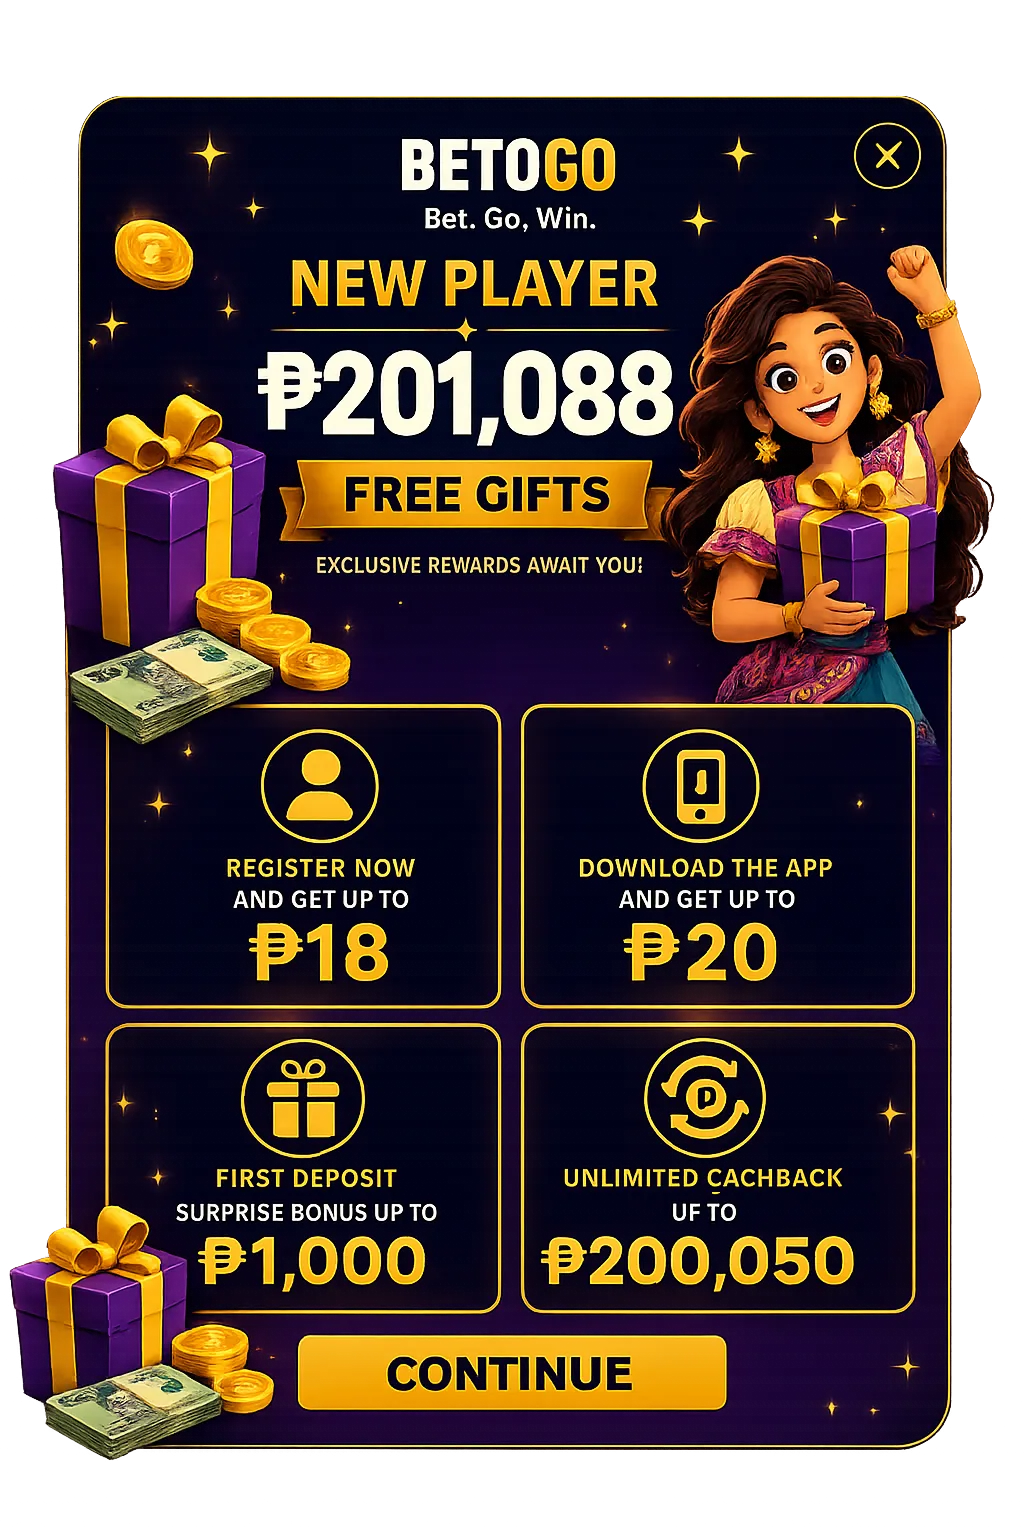
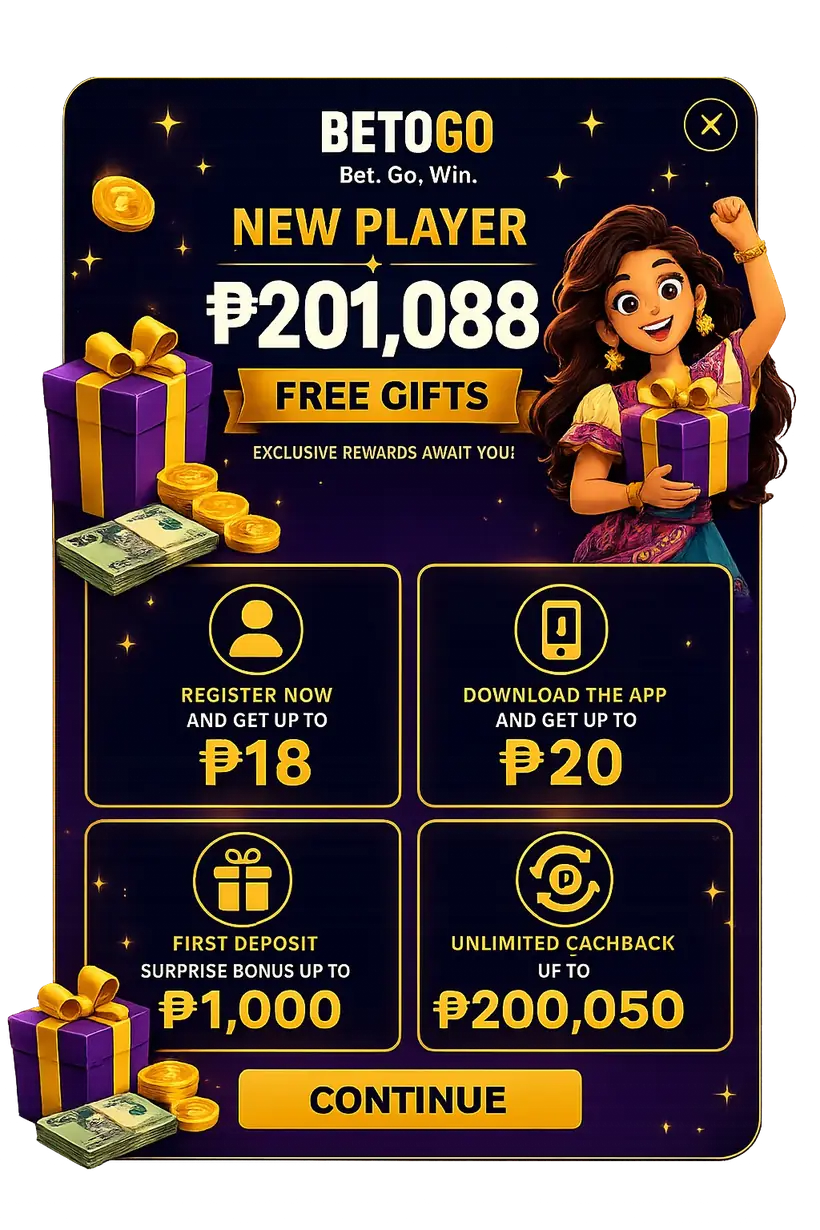
新人礼包弹窗弱网防卡死 + 图片压缩
- 弱网下遮罩先出而图未加载→X画在图里无法关闭,用户被空遮罩挡死。修复:
  ①图未加载时显示独立兜底关闭按钮(不依赖图)+loading圈,加载完成后隐藏(避免双X)
  ②固定宽高比占位撑开尺寸,布局不跳、热区坐标稳定
  ③点遮罩空白处本就可关闭,三重保证用户始终能退出
- 图片压缩:1024→820宽 q74,394KB→218KB(省45%),缩短加载窗口,质量无损可见

diff --git a/apps/web-tma/src/components/promotion/NewPlayerGiftSheet.tsx b/apps/web-tma/src/components/promotion/NewPlayerGiftSheet.tsx
@@ -1,4 +1,6 @@
+import { useState } from 'react'
 import { createPortal } from 'react-dom'
+import { X } from 'lucide-react'
 import newPlayerImg from '@/assets/home/promos/new-player.webp'
 
 interface Props {
@@ -6,39 +8,64 @@ interface Props {
   onContinue: () => void
 }
 
-// 居中弹出设计图（透明边），X 与 CONTINUE 已画在图里，只在其位置盖透明热区
+// 居中弹出设计图（透明边），X 与 CONTINUE 画在图里、盖透明热区。
+// 弱网防卡死：图未加载时用固定宽高比占位 + loading 圈 + 独立兜底关闭按钮，
+// 保证遮罩出现时用户始终能关闭，不会被空遮罩挡死。
 export default function NewPlayerGiftSheet({ onClose, onContinue }: Props) {
+  const [loaded, setLoaded] = useState(false)
+
   return createPortal(
     <div
       className="fixed inset-0 z-[95] flex items-center justify-center bg-black/80 px-4"
       onClick={onClose}
     >
-      <div
-        className="relative w-full max-w-[380px]"
-        onClick={(e) => e.stopPropagation()}
-      >
-        <img
-          src={newPlayerImg}
-          alt="New Player Gifts"
-          draggable={false}
-          className="block w-full max-h-[90dvh] select-none object-contain"
-        />
-        {/* 右上角 X：关闭弹窗 */}
+      {/* 兜底关闭：仅在图未加载时显示，图片自带的 X 出来后隐藏，避免双 X */}
+      {!loaded && (
         <button
           type="button"
           aria-label="Close"
           onClick={onClose}
-          className="absolute cursor-pointer"
-          style={{ top: '5%', right: '5%', width: '16%', height: '12%' }}
-        />
-        {/* 底部 CONTINUE：未登录→登录弹窗，已登录→优惠页 */}
-        <button
-          type="button"
-          aria-label="Continue"
-          onClick={onContinue}
-          className="absolute cursor-pointer"
-          style={{ left: '8%', right: '8%', top: '84%', height: '9%' }}
-        />
+          className="absolute right-4 top-4 z-10 flex h-9 w-9 items-center justify-center rounded-full bg-black/55 text-white/90 active:scale-95"
+        >
+          <X size={20} strokeWidth={2.5} />
+        </button>
+      )}
+
+      <div className="relative w-full max-w-[380px]" onClick={(e) => e.stopPropagation()}>
+        {/* 固定宽高比占位：图未到也先撑开正确尺寸，热区坐标稳定、布局不跳 */}
+        <div className="relative w-full" style={{ aspectRatio: '1024 / 1536' }}>
+          {!loaded && (
+            <div className="absolute inset-0 flex items-center justify-center">
+              <span className="h-8 w-8 animate-spin rounded-full border-2 border-white/25 border-t-white/90" />
+            </div>
+          )}
+          <img
+            src={newPlayerImg}
+            alt="New Player Gifts"
+            draggable={false}
+            onLoad={() => setLoaded(true)}
+            className={`block h-full w-full select-none object-contain transition-opacity duration-200 ${loaded ? 'opacity-100' : 'opacity-0'}`}
+          />
+          {/* 图内热区仅在加载完成后启用（此前用兜底 X） */}
+          {loaded && (
+            <>
+              <button
+                type="button"
+                aria-label="Close"
+                onClick={onClose}
+                className="absolute cursor-pointer"
+                style={{ top: '5%', right: '5%', width: '16%', height: '12%' }}
+              />
+              <button
+                type="button"
+                aria-label="Continue"
+                onClick={onContinue}
+                className="absolute cursor-pointer"
+                style={{ left: '8%', right: '8%', top: '84%', height: '9%' }}
+              />
+            </>
+          )}
+        </div>
       </div>
     </div>,
     document.body,
